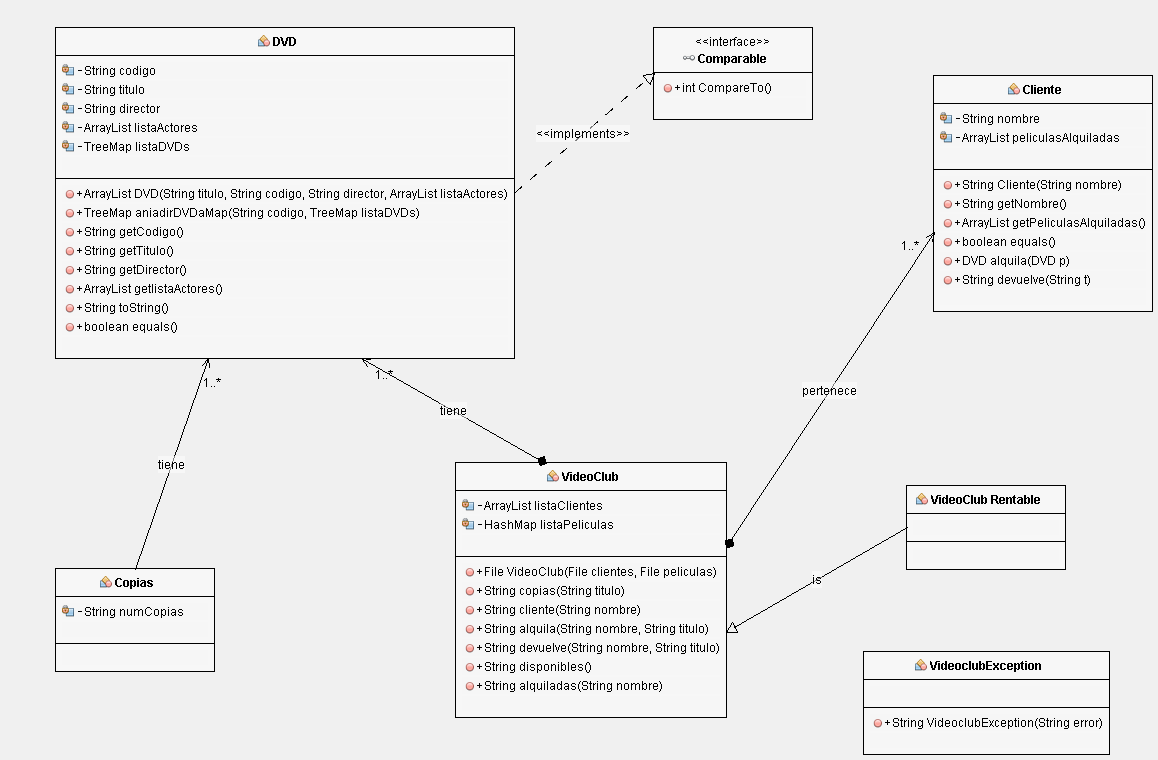
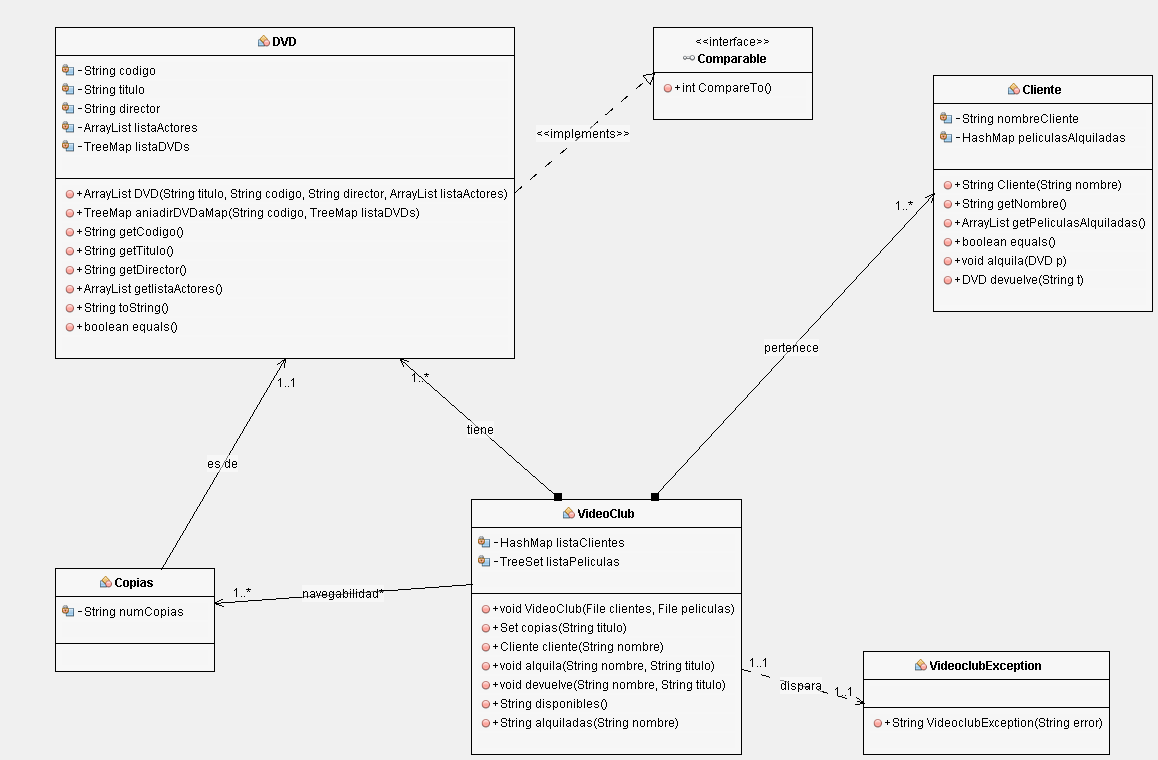
Metodos de la clase Cliente, VideoClub y DVD creados

diff --git a/src/videoClub/DVD.java b/src/videoClub/DVD.java
@@ -2,6 +2,7 @@ package videoClub;
 
 
 import java.util.ArrayList;
+import java.util.Objects;
 import java.util.TreeMap;
 
 public class DVD implements Comparable {
@@ -14,40 +15,65 @@ public class DVD implements Comparable {
 
     private ArrayList listaActores;
 
-    private TreeMap listaDVDs;
-
-    public ArrayList DVD(String titulo, String codigo, String director, ArrayList listaActores) {
-        throw new UnsupportedOperationException("Not supported yet.");
-    }
-
-    public TreeMap aniadirDVDaMap(String codigo, TreeMap listaDVDs) {
+    public DVD(String titulo, String codigo, String director, ArrayList listaActores) {
         throw new UnsupportedOperationException("Not supported yet.");
     }
 
     public String getCodigo() {
-        throw new UnsupportedOperationException("Not supported yet.");
+        return codigo;
     }
 
     public String getTitulo() {
-        throw new UnsupportedOperationException("Not supported yet.");
+        return titulo;
     }
 
     public String getDirector() {
-        throw new UnsupportedOperationException("Not supported yet.");
+        return director;
     }
 
-    public ArrayList getlistaActores() {
-        throw new UnsupportedOperationException("Not supported yet.");
+    public ArrayList getListaActores() {
+        return listaActores;
     }
 
-    public String toString() {
-        throw new UnsupportedOperationException("Not supported yet.");
+    @Override
+    public int hashCode() {
+        int hash = 3;
+        hash = 13 * hash + Objects.hashCode(this.titulo);
+        return hash;
     }
+
+    @Override
+    public boolean equals(Object obj) {
+        if (this == obj) {
+            return true;
+        }
+        if (obj == null) {
+            return false;
+        }
+        if (getClass() != obj.getClass()) {
+            return false;
+        }
+        final DVD other = (DVD) obj;
+        if (!Objects.equals(this.titulo, other.titulo)) {
+            return false;
+        }
+        return true;
+    }
+
+    
 
     public boolean equals() {
         throw new UnsupportedOperationException("Not supported yet.");
     }
 
+    @Override
+    public String toString() {
+        return "Titulo de la Pelicula= " + titulo + "Codigo= " + codigo + "Director= " +
+                                        director + "Lista de Actores=" + listaActores ;
+    }
+
+    
+    
     @Override
     public int CompareTo() {
         throw new UnsupportedOperationException("Not supported yet."); //To change body of generated methods, choose Tools | Templates.

diff --git a/src/videoClub/Cliente.java b/src/videoClub/Cliente.java
@@ -2,34 +2,60 @@ package videoClub;
 
 
 import java.util.ArrayList;
+import java.util.HashMap;
+import java.util.Objects;
 
 public class Cliente {
 
-    private String nombre;
+    private String nombreCliente;
 
-    private ArrayList peliculasAlquiladas;
+    private HashMap <String, ArrayList<Copia>>  peliculasAlquiladas;
 
-    public String Cliente(String nombre) {
-        throw new UnsupportedOperationException("Not supported yet.");
-    }
-     /*MODIFICAR LOS VOID Y LOS STRINGS!!!!*/
-    public void getNombre() {
-        throw new UnsupportedOperationException("Not supported yet.");
+    public void Cliente(String nombre) {
+       this.nombreCliente = nombre;
+       peliculasAlquiladas = new HashMap();
     }
 
-    public ArrayList getPeliculasAlquiladas() {
+    public String getNombreCliente() {
+        return nombreCliente;
+    }
+
+    public HashMap<String, ArrayList<Copia>> getPeliculasAlquiladas() {
+        return peliculasAlquiladas;
+    }
+
+    @Override
+    public int hashCode() {
+        int hash = 7;
+        hash = 31 * hash + Objects.hashCode(this.nombreCliente);
+        return hash;
+    }
+
+    @Override
+    public boolean equals(Object obj) {
+        if (this == obj) {
+            return true;
+        }
+        if (obj == null) {
+            return false;
+        }
+        if (getClass() != obj.getClass()) {
+            return false;
+        }
+        final Cliente other = (Cliente) obj;
+        if (!Objects.equals(this.nombreCliente, other.nombreCliente)) {
+            return false;
+        }
+        return true;
+    }
+    
+    
+    
+    public void alquila(DVD pelicula) {
         throw new UnsupportedOperationException("Not supported yet.");
     }
 
-    public boolean equals() {
-        throw new UnsupportedOperationException("Not supported yet.");
-    }
-
-    public DVD alquila(DVD p) {
-        throw new UnsupportedOperationException("Not supported yet.");
-    }
-
-    public String devuelve(String t) {
+    public DVD devuelve(String titulo) {
         throw new UnsupportedOperationException("Not supported yet.");
     }
 }

diff --git a/src/videoClub/VideoClub.java b/src/videoClub/VideoClub.java
@@ -2,6 +2,7 @@ package videoClub;
 
 
 import java.io.File;
+import java.util.ArrayList;
 import java.util.HashMap;
 import java.util.Set;
 import java.util.TreeSet;
@@ -11,6 +12,8 @@ public class VideoClub {
     private HashMap listaClientes;
 
     private TreeSet listaPeliculas;
+    
+    private HashMap <String, ArrayList<Copia>>  copiasDisponibles;
 
     public VideoClub(File clientes, File peliculas) {
         throw new UnsupportedOperationException("Not supported yet.");

diff --git a/src/videoClub/Copia.java b/src/videoClub/Copia.java
@@ -1,6 +1,6 @@
 package videoClub;
 
-public class Copias {
+public class Copia {
 
     private String numCopias;
 }
